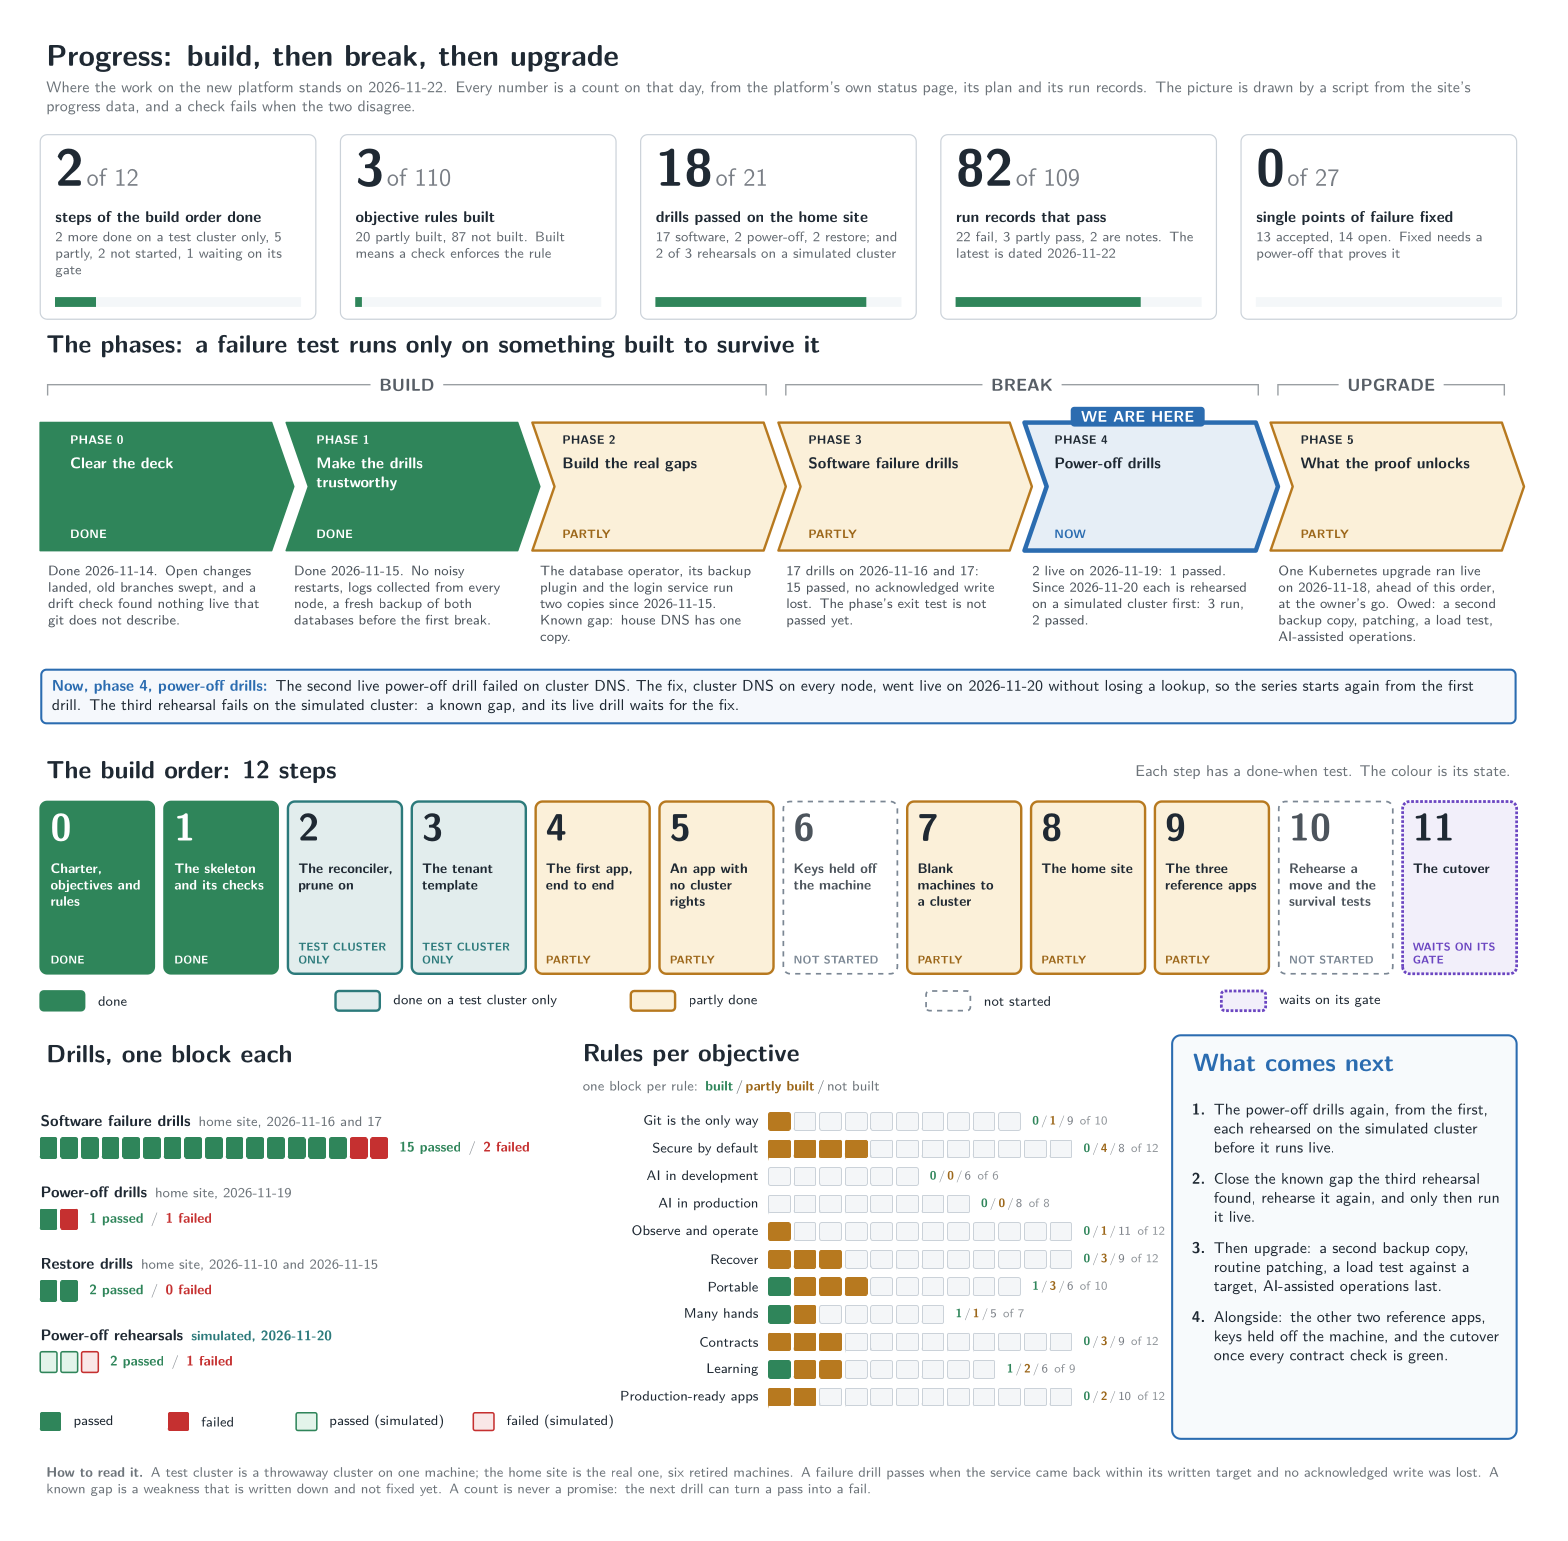
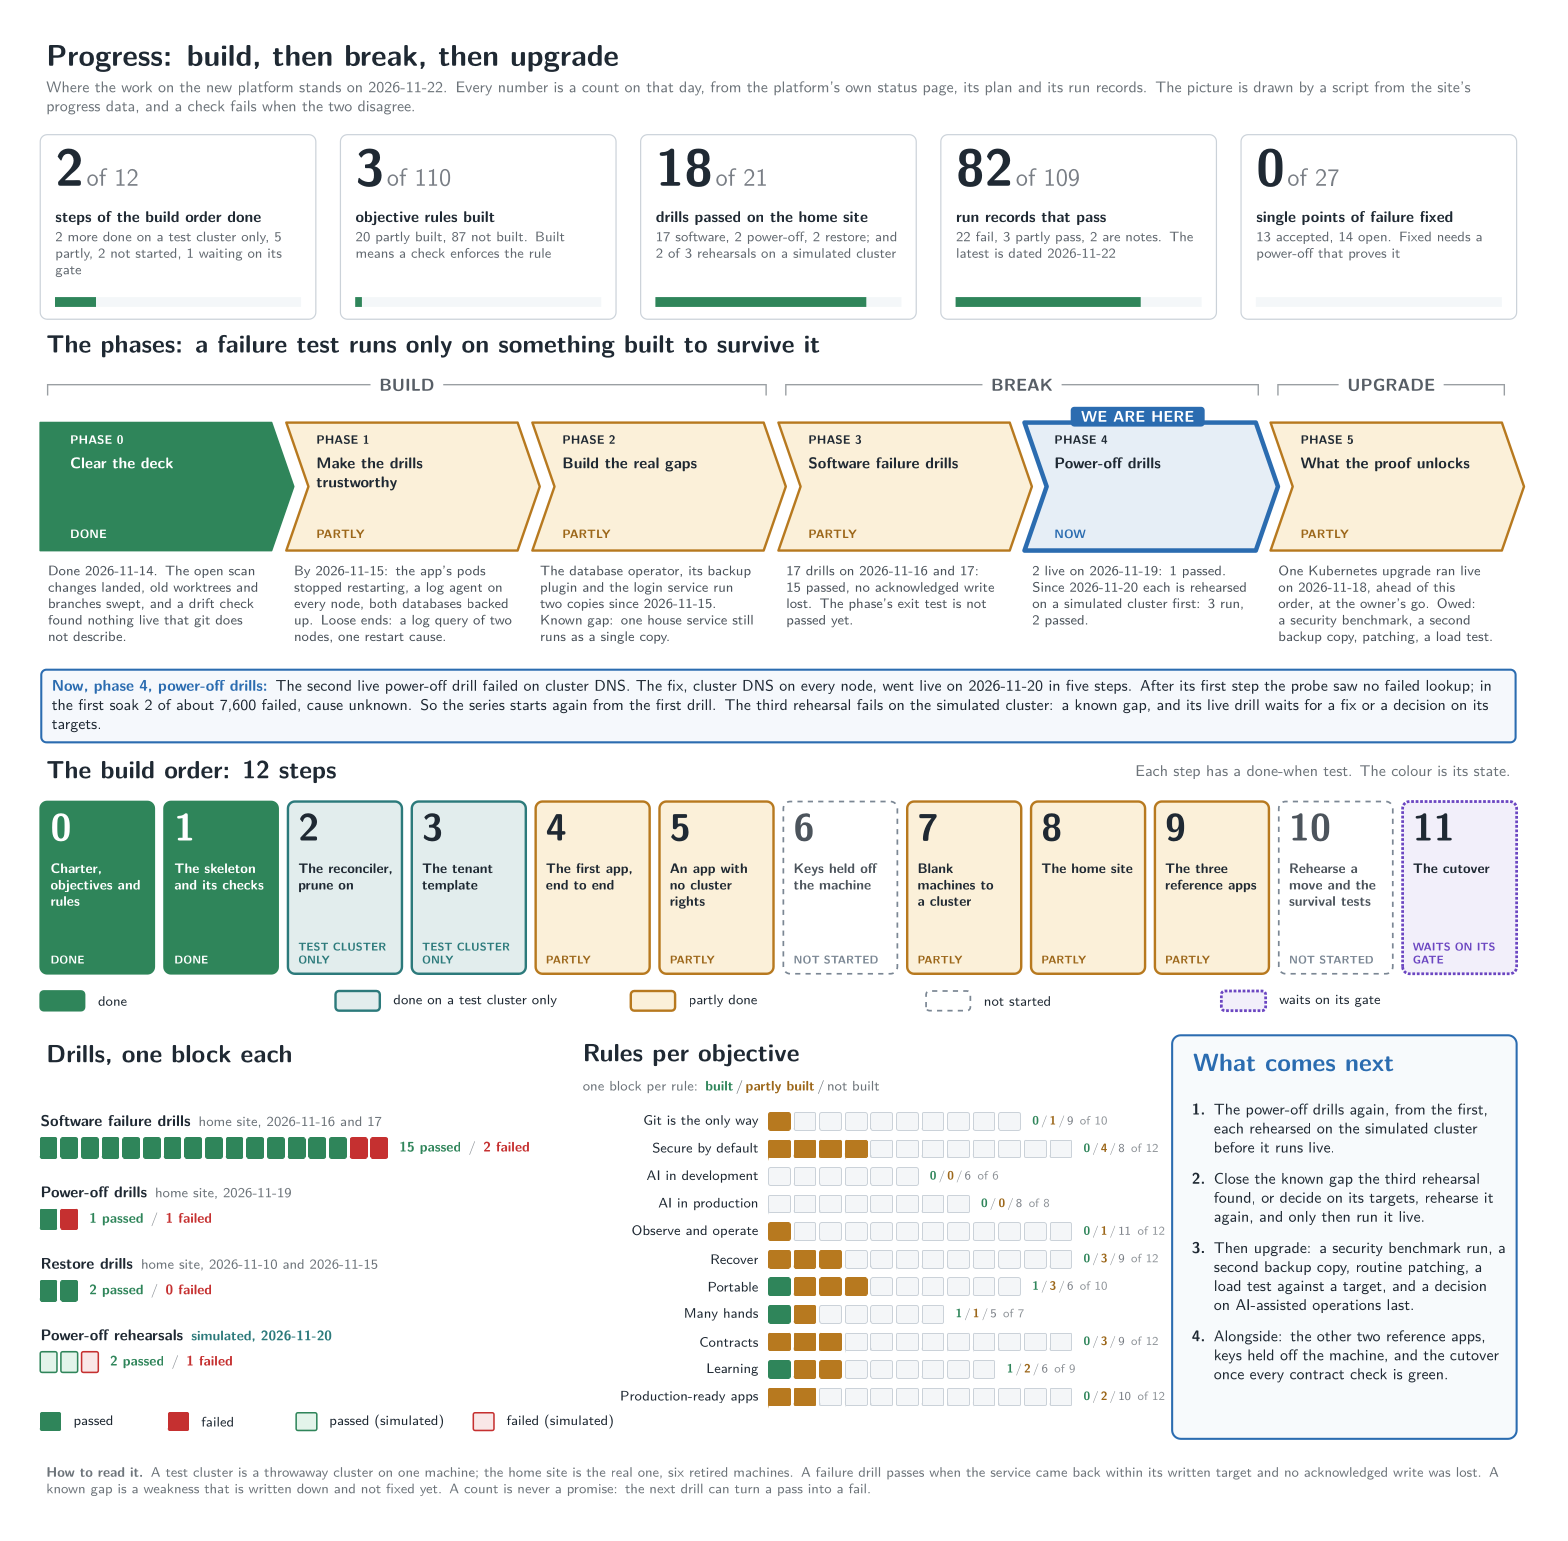
progress: say only what the records show (fact check)
- Now: the DNS fix went live on 2026-11-20 in five steps; after its first
  step the probe saw no failed lookup, and 2 of about 7,600 failed in the
  first soak, cause unknown. Drill 3 waits for a fix or a decision on its
  targets.
- Phase 1 is partly done, not done: two loose ends (a log query of two
  nodes, one restart cause).
- Phase 2 names no component in its known gap.
- Phase 5 owes a security benchmark; AI-assisted operations is a decision,
  not owed work (it stays in What comes next as a decision).
- Drills: each under a probe of what it serves (writes for the database
  drills); rehearsals come first from 2026-11-20, not before every drill.
- Page: one Kubernetes upgrade ran early; the plan sets no dates for the
  phases or the cutover.
- Picture redrawn; the phase notes fit above the Now box.

diff --git a/docs/assets/diagrams/progress-data.tex b/docs/assets/diagrams/progress-data.tex
@@ -15,17 +15,17 @@
   \ProgressGroup{upgrade}{5}{5}%
 }
 \newcommand{\ProgressPhases}{%
-  \ProgressPhase{0}{done}{Clear the deck}{Done 2026-11-14. Open changes landed, old branches swept, and a drift check found nothing live that git does not describe.}%
-  \ProgressPhase{1}{done}{Make the drills trustworthy}{Done 2026-11-15. No noisy restarts, logs collected from every node, a fresh backup of both databases before the first break.}%
-  \ProgressPhase{2}{partly}{Build the real gaps}{The database operator, its backup plugin and the login service run two copies since 2026-11-15. Known gap: house DNS has one copy.}%
+  \ProgressPhase{0}{done}{Clear the deck}{Done 2026-11-14. The open scan changes landed, old worktrees and branches swept, and a drift check found nothing live that git does not describe.}%
+  \ProgressPhase{1}{partly}{Make the drills trustworthy}{By 2026-11-15: the app's pods stopped restarting, a log agent on every node, both databases backed up. Loose ends: a log query of two nodes, one restart cause.}%
+  \ProgressPhase{2}{partly}{Build the real gaps}{The database operator, its backup plugin and the login service run two copies since 2026-11-15. Known gap: one house service still runs as a single copy.}%
   \ProgressPhase{3}{partly}{Software failure drills}{17 drills on 2026-11-16 and 17: 15 passed, no acknowledged write lost. The phase's exit test is not passed yet.}%
   \ProgressPhase{4}{current}{Power-off drills}{2 live on 2026-11-19: 1 passed. Since 2026-11-20 each is rehearsed on a simulated cluster first: 3 run, 2 passed.}%
-  \ProgressPhase{5}{partly}{What the proof unlocks}{One Kubernetes upgrade ran live on 2026-11-18, ahead of this order, at the owner's go. Owed: a second backup copy, patching, a load test, AI-assisted operations.}%
+  \ProgressPhase{5}{partly}{What the proof unlocks}{One Kubernetes upgrade ran live on 2026-11-18, ahead of this order, at the owner's go. Owed: a security benchmark, a second backup copy, patching, a load test.}%
 }
 \newcommand{\ProgressPhaseCount}{6}
 \newcommand{\ProgressNowPhase}{4}
 \newcommand{\ProgressNowTitle}{Power-off drills}
-\newcommand{\ProgressNow}{The second live power-off drill failed on cluster DNS. The fix, cluster DNS on every node, went live on 2026-11-20 without losing a lookup, so the series starts again from the first drill. The third rehearsal fails on the simulated cluster: a known gap, and its live drill waits for the fix.}
+\newcommand{\ProgressNow}{The second live power-off drill failed on cluster DNS. The fix, cluster DNS on every node, went live on 2026-11-20 in five steps. After its first step the probe saw no failed lookup; in the first soak 2 of about 7,600 failed, cause unknown. So the series starts again from the first drill. The third rehearsal fails on the simulated cluster: a known gap, and its live drill waits for a fix or a decision on its targets.}
 \newcommand{\ProgressSteps}{%
   \ProgressStep{0}{done}{Charter, objectives and rules}%
   \ProgressStep{1}{done}{The skeleton and its checks}%
@@ -63,8 +63,8 @@
 \newcommand{\ProgressObjectiveCount}{11}
 \newcommand{\ProgressNext}{%
   \item The power-off drills again, from the first, each rehearsed on the simulated cluster before it runs live.%
-  \item Close the known gap the third rehearsal found, rehearse it again, and only then run it live.%
-  \item Then upgrade: a second backup copy, routine patching, a load test against a target, AI-assisted operations last.%
+  \item Close the known gap the third rehearsal found, or decide on its targets, rehearse it again, and only then run it live.%
+  \item Then upgrade: a security benchmark run, a second backup copy, routine patching, a load test against a target, and a decision on AI-assisted operations last.%
   \item Alongside: the other two reference apps, keys held off the machine, and the cutover once every contract check is green.%
 }
-\newcommand{\ProgressDataDigest}{579ad2a86ff474c4}
+\newcommand{\ProgressDataDigest}{cebddb1f18a1ec2a}

diff --git a/docs/progress.md b/docs/progress.md
@@ -22,7 +22,7 @@ are both drawn from that file, so they cannot disagree. A guard fails the build 
 the picture was drawn from other data, or when the file is more than three weeks old. The figures that [Status](status.html)
 also shows are measured there by a script, on their own date. Where the two dates differ, the numbers may differ too.
 
-This page shows where the work stands. It is not a promise of dates: the plan has none, and the next drill can turn a
+This page shows where the work stands. It is not a promise of dates: the plan sets no dates for the phases or the cutover, and the next drill can turn a
 pass into a fail.
 
 ## The picture
@@ -37,7 +37,7 @@ pass into a fail.
 
 The work runs in three parts and six phases. **Build** comes first, so that a failure test runs only on something built to
 survive it. **Break** is the drills, software first, then power-offs. **Upgrade** comes last, so that a rolling upgrade runs
-only on a cluster that has been shown to survive a node going away. One upgrade ran ahead of this order, on 2026-11-18, at
+only on a cluster that has been shown to survive a node going away. One Kubernetes upgrade ran ahead of this order, on 2026-11-18, at
 the owner's go; the phase table says so.
 
 | Phase | Part | State | Where it stands |
